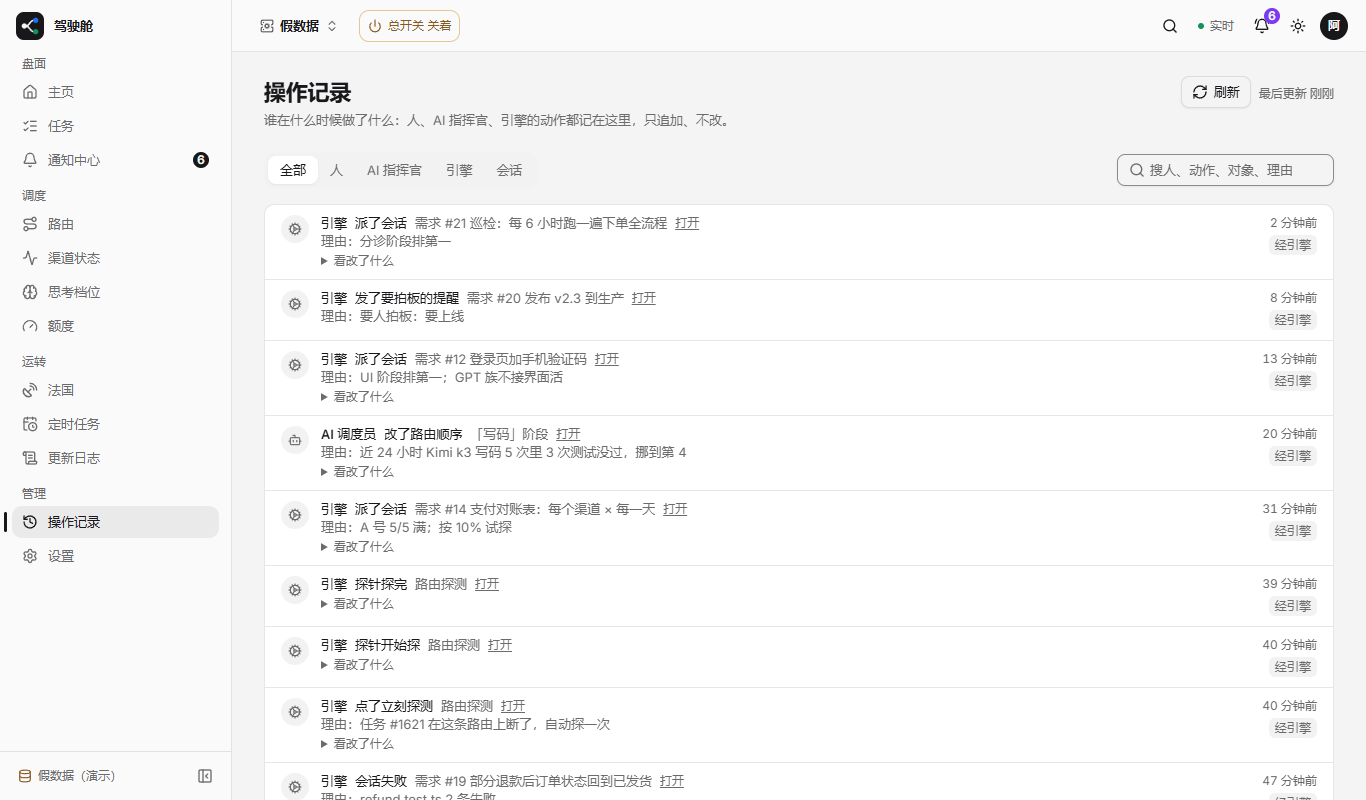
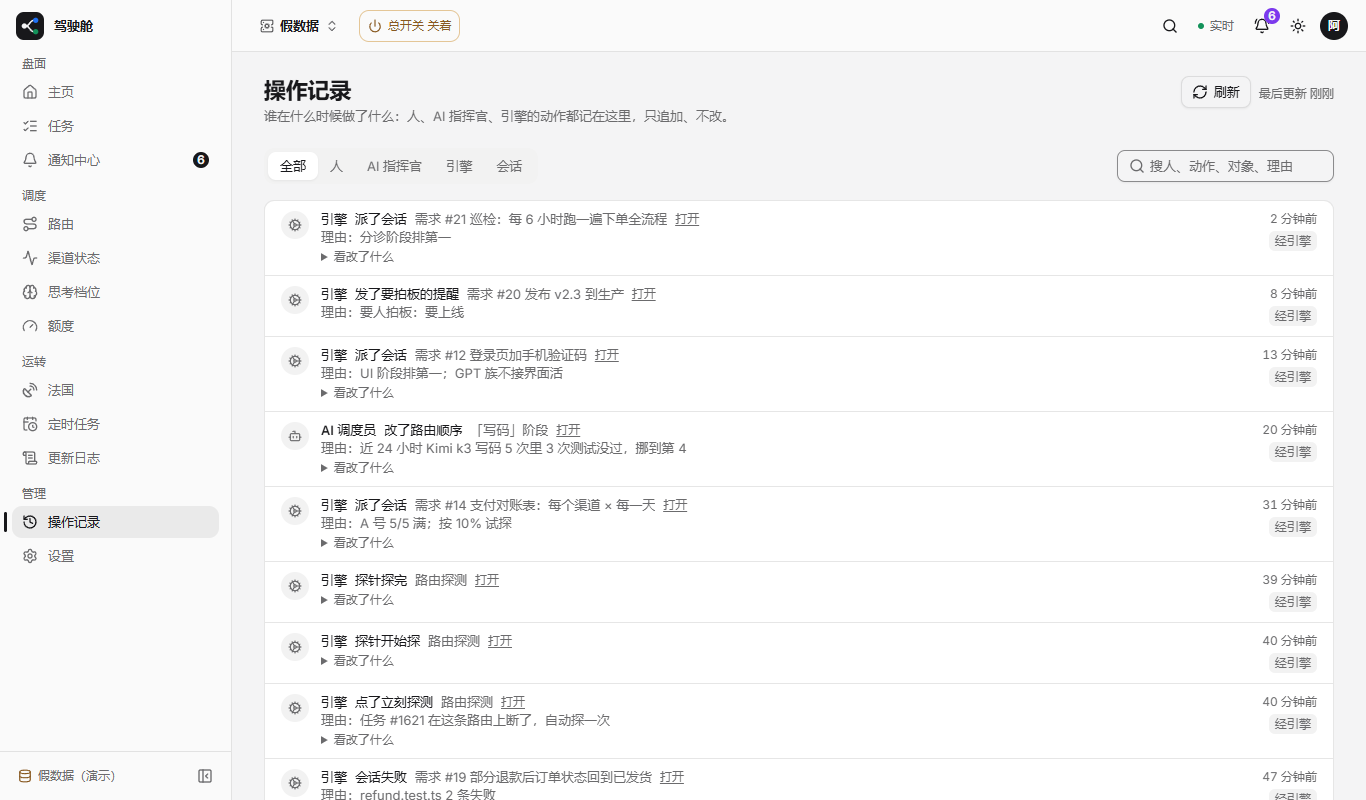
Page 页头改回旧结构的并排写法：标题块和操作区是 header 的两个子项，满足 load-state 的结构断言；渠道状态测试改在 ⓘ 里断言节奏那句（#1897）

diff --git a/packages/web/src/components/layout/page.tsx b/packages/web/src/components/layout/page.tsx
@@ -26,7 +26,7 @@ export function DescriptionHint({
           aria-label={label}
           title={label}
           data-description-hint
-          className="inline-grid size-8 shrink-0 max-md:size-10 place-items-center rounded-full text-muted-foreground hover:text-foreground"
+          className="inline-grid size-8 shrink-0 place-items-center align-middle max-md:size-10 rounded-full text-muted-foreground hover:text-foreground"
         >
           <Info className="size-4" aria-hidden />
         </button>
@@ -86,23 +86,25 @@ export function Page({
         className,
       )}
     >
-      <header className="mb-section-gap max-md:mb-4">
-        {/* 标题行：标题（后面跟 ⓘ）在左，操作和刷新在右，两边垂直居中在这一行上；说明在它下面，最多一行。 */}
-        <div className="flex flex-wrap items-center justify-between gap-x-stack gap-y-2" data-page-titlebar>
-          <div className="flex min-w-0 flex-1 basis-52 items-center gap-1">
-            <h1 className="min-w-0 text-title">{title}</h1>
-            {hint}
-          </div>
-          {actions || refresh ? (
-            <div className="flex max-w-full flex-wrap items-center gap-2 lg:shrink-0" data-page-actions>
-              {actions}
-              {refresh ? <RefreshBar {...refresh} /> : null}
+      {/* 标题行：标题（后面跟 ⓘ）在左，操作和刷新在右。两边都从顶对齐、各自至少一个控件高并垂直居中，
+          所以刷新和标题在同一行上对齐，不会被下面的说明拉低；说明在标题下面，最多一行。 */}
+      <header className="mb-section-gap flex flex-wrap items-start justify-between gap-x-stack gap-y-2 max-md:mb-4 lg:flex-nowrap">
+        <div className="min-w-0 basis-52 lg:flex-1" data-page-titlebar>
+          <h1 className="inline align-middle text-title">{title}</h1>
+          {hint}
+          {description && !fold ? (
+            <div className="mt-1 max-w-3xl text-body text-muted-foreground" data-page-description>
+              {description}
             </div>
           ) : null}
         </div>
-        {description && !fold ? (
-          <div className="mt-1 max-w-3xl text-body text-muted-foreground" data-page-description>
-            {description}
+        {actions || refresh ? (
+          <div
+            className="flex min-h-8 max-w-full flex-wrap items-center gap-2 max-md:min-h-10 lg:shrink-0"
+            data-page-actions
+          >
+            {actions}
+            {refresh ? <RefreshBar {...refresh} /> : null}
           </div>
         ) : null}
       </header>

diff --git a/packages/web/src/components/layout/page.test.tsx b/packages/web/src/components/layout/page.test.tsx
@@ -100,11 +100,16 @@ describe('Page', () => {
         <p>正文</p>
       </Page>,
     );
-    const bar = document.querySelector('[data-page-titlebar]') as HTMLElement;
-    expect(bar.querySelector('h1')?.textContent).toBe('某页');
-    expect(bar.querySelector('[data-page-actions]')).toBeTruthy();
-    expect(bar.className).toContain('items-center');
-    expect(bar.contains(screen.getByText('一句说明。'))).toBe(false);
+    const header = document.querySelector('header') as HTMLElement;
+    const actions = header.querySelector('[data-page-actions]') as HTMLElement;
+    // 刷新槽位和标题块是页头里并排的两个子项，都从顶对齐；槽位至少一个控件高并居中
+    expect(actions.parentElement).toBe(header);
+    expect(header.className).toContain('items-start');
+    expect(actions.className).toContain('items-center');
+    expect(actions.className).toContain('min-h-8');
+    const titlebar = header.querySelector('[data-page-titlebar]') as HTMLElement;
+    expect(titlebar.querySelector('h1')?.textContent).toBe('某页');
+    expect(titlebar.contains(actions)).toBe(false);
   });
 
   test('电脑：字符串说明超过一行的字数，收进 ⓘ，标题下不摊开', async () => {

diff --git a/packages/web/src/routes/routing-status.test.tsx b/packages/web/src/routes/routing-status.test.tsx
@@ -283,9 +283,15 @@ describe('渠道状态页：渠道卡', () => {
   test('顶上的说明换成三档节奏的那一句，不再写「Mirasim、Cursor、Grok 探通后 2 小时一轮」', async () => {
     renderApp(<RoutingStatus />, { route: '/routing/status' });
     await screen.findByRole('list', { name: '渠道状态' });
-    expect(document.body.textContent).toContain(
-      '活跃路由每小时探一次，不活跃的每天一次，派活前 15 分钟内没探过会先探；中转渠道的活跃模型额外问一道身份题。',
-    );
+    // 页头一行写概要，探测节奏这一句收在标题旁的 ⓘ 里（#1897），点开才看
+    fireEvent.click(document.querySelector('[data-description-hint]') as HTMLElement);
+    expect(
+      await screen.findByText((text) =>
+        text.includes(
+          '活跃路由每小时探一次，不活跃的每天一次，派活前 15 分钟内没探过会先探；中转渠道的活跃模型额外问一道身份题。',
+        ),
+      ),
+    ).toBeTruthy();
     expect(document.body.textContent).not.toContain('2 小时一轮');
   });
 
